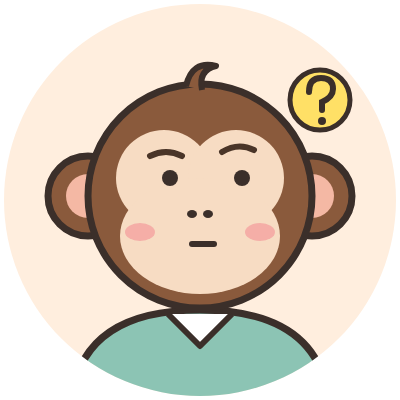
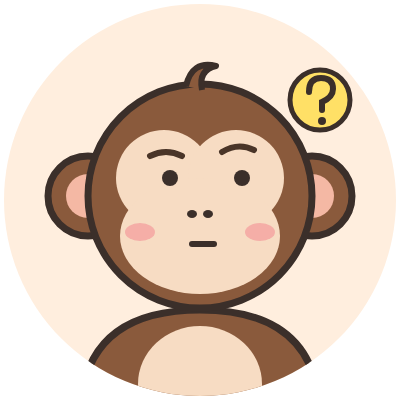
おさるさんキャラの服をなくし、毛の体とお腹にする
Claude-Session: https://claude.ai/code/session_01AbwgezYxuzkhNMxoZh4PnK

Changed region(s): [[0.21, 0.75, 0.81, 0.99]]

diff --git a/ブログジャンル選定/eyecatch_tool/make_avatar.py b/ブログジャンル選定/eyecatch_tool/make_avatar.py
@@ -66,8 +66,8 @@ def svg_monkey(face):
 <circle cx="200" cy="200" r="196" fill="#ffeede"/>
 <clipPath id="c"><circle cx="200" cy="200" r="196"/></clipPath>
 <g clip-path="url(#c)">
- <path d="M70 420 q0 -110 130 -110 q130 0 130 110z" fill="#8cc4b4" stroke="{INK}" stroke-width="7"/>
- <path d="M168 314 l32 32 l32 -32" fill="#fff" stroke="{INK}" stroke-width="6" stroke-linejoin="round"/>
+ <path d="M80 420 q0 -110 120 -110 q120 0 120 110z" fill="{FUR}" stroke="{INK}" stroke-width="7"/>
+ <ellipse cx="200" cy="384" rx="62" ry="58" fill="{MASK}"/>
  <circle cx="88" cy="196" r="40" fill="{FUR}" stroke="{INK}" stroke-width="7"/><circle cx="88" cy="196" r="22" fill="#f4b8a4"/>
  <circle cx="312" cy="196" r="40" fill="{FUR}" stroke="{INK}" stroke-width="7"/><circle cx="312" cy="196" r="22" fill="#f4b8a4"/>
  <circle cx="200" cy="196" r="112" fill="{FUR}" stroke="{INK}" stroke-width="7"/>
